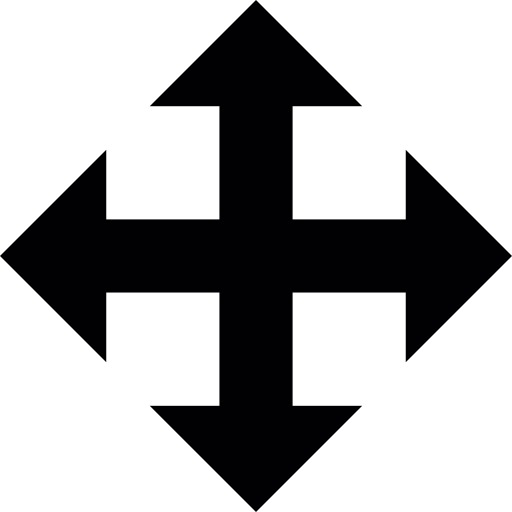
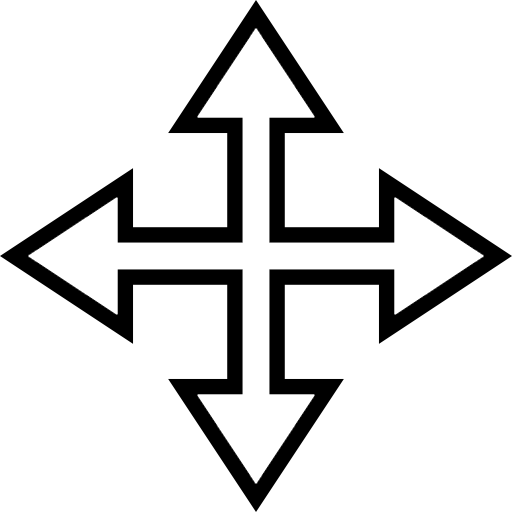
skill tree editor implementation

Changed region(s): [[0.0, 0.0, 1.0, 1.0]]

diff --git a/Assets/Editor/Inspectors/SkillTree/SkillTreeInspector.cs b/Assets/Editor/Inspectors/SkillTree/SkillTreeInspector.cs
@@ -26,15 +26,17 @@ namespace Editor.Inspectors.SkillTree
 
             _calculatedNodes.Clear();
 
-            Handles.BeginGUI();
             foreach (var node in nodes)
             {
+                if (!node.Tree)
+                {
+                    node.Tree = target as UI.Components.SkillTree;
+                }
                 var rt = node.GetComponent<RectTransform>();
-                var nodeSize = rt.sizeDelta / 4 * zoom;
+                var nodeSize = rt.sizeDelta / 2;
                 var pos = camera.WorldToScreenPoint(node.transform.position);
                 var basePos = new Vector2(pos.x, camera.pixelHeight - pos.y);
                 nodeSize.y = -nodeSize.y;
-                var finalPos = nodeSize + basePos;
                 
                 Handles.color = Color.red;
                 foreach (var connection in node.Connections)
@@ -43,24 +45,44 @@ namespace Editor.Inspectors.SkillTree
                     {
                         continue;
                     }
-                    var cPos = camera.WorldToScreenPoint(connection.GetComponent<RectTransform>().position);
-                    var cBasePos = new Vector2(cPos.x, camera.pixelHeight - cPos.y);
-                    Handles.DrawLine(basePos, cBasePos);
+                    Handles.DrawLine(rt.position, connection.GetComponent<RectTransform>().position);
                 }
 
                 _calculatedNodes.Add(node);
                 
                 Handles.color = Color.white;
-                Handles.DrawSolidDisc(basePos, new Vector3(0, 0, 1), nodeSize.x);
+                Handles.DrawSolidDisc(rt.position, new Vector3(0, 0, 1), nodeSize.x);
                 Handles.color = Color.black;
-                Handles.DrawSolidDisc(basePos, new Vector3(0, 0, 1), nodeSize.x * 0.75f);
+                Handles.DrawSolidDisc(rt.position, new Vector3(0, 0, 1), nodeSize.x * 0.75f);
+                Handles.color = Color.gray;
+                EditorGUI.BeginChangeCheck();
+                var offset = new Vector3(-nodeSize.x - 6, nodeSize.x / 2 + 5);
+                EditorSnapSettings.snapEnabled = true;
+                var newPos = Handles.FreeMoveHandle(rt.position + offset, 20, Vector3.zero, DoMoveHandle);
+                if (EditorGUI.EndChangeCheck())
+                {
+                    Undo.RecordObject(rt, "Move Skill Node");
+                    var delta = newPos - rt.position - offset;
+                    rt.position += delta;
+                    rt.position = Snapping.Snap(rt.position, new Vector3(10, 10, 10));
+                }
                 
+                var normalStyle = new GUIStyle("ButtonMid");
+                Handles.BeginGUI();
                 if (node != _attachNode && !node.HasConnection(_attachNode))
                 {
-                    if (GUI.Button(new Rect(new Vector2(finalPos.x - 10 * zoom, finalPos.y - 10 * zoom), new Vector2(20, 20) * zoom), EditorGUIUtility.Load("Link.png") as Texture))
+                    if (_attachNode)
+                    {
+                        GUI.backgroundColor = new Color(1, 1, 0);
+                    }
+
+                    if (GUI.Button(new Rect(new Vector2(basePos.x + (nodeSize.x / 2 - 6) * zoom, basePos.y - (nodeSize.x - 6) * zoom),
+                            new Vector2(10, 10) * zoom),
+                            EditorGUIUtility.Load("Link.png") as Texture, normalStyle))
                     {
                         if (_attachNode)
                         {
+                            Undo.RecordObjects(new Object[]{node, _attachNode}, "Link Skill Nodes");
                             _attachNode.Attach(node);
                             node.Attach(_attachNode);
                             _attachNode = null;
@@ -71,8 +93,39 @@ namespace Editor.Inspectors.SkillTree
                         }
                     }
                 }
+                else if (node != _attachNode)
+                {
+                    GUI.backgroundColor = new Color(1, 0, 0);
+                    
+                    if (_attachNode)
+                    {
+                        if (GUI.Button(new Rect(new Vector2(basePos.x + (nodeSize.x / 2 - 6) * zoom, basePos.y - (nodeSize.x - 6) * zoom),
+                                    new Vector2(10, 10) * zoom),
+                                EditorGUIUtility.Load("Cross.png") as Texture, normalStyle))
+                        {
+                            Undo.RecordObjects(new Object[]{node, _attachNode}, "Unlink Skill Nodes");
+                            _attachNode.Detach(node);
+                            node.Detach(_attachNode);
+                            _attachNode = null;
+                        }
+                    }
+                }
+                Handles.EndGUI();
             }
-            Handles.EndGUI();
+        }
+
+        private void DoMoveHandle(int controlID, Vector3 position, Quaternion rotation, float size, EventType eventType)
+        {
+            switch (eventType)
+            {
+                case EventType.MouseMove:
+                case EventType.Layout:
+                    HandleUtility.AddControl(controlID, HandleUtility.DistanceToRectangle(position, rotation, size));
+                    break;
+                case EventType.Repaint:
+                    Graphics.DrawTexture(new Rect(position, Vector2.one * size), EditorGUIUtility.Load("MoveTool.png") as Texture);
+                    break;
+            }
         }
 
 

diff --git a/Assets/Scripts/UI/Elements/Skill Tree/SkillNode.cs b/Assets/Scripts/UI/Elements/Skill Tree/SkillNode.cs
@@ -3,18 +3,35 @@ using Gameplay.Modifiers;
 using UI.Components;
 using UnityEngine;
 using UnityEngine.EventSystems;
+using UnityEngine.UI;
 
 namespace UI.Elements.Skill_Tree
 {
+    public enum SkillType
+    {
+        Travel,
+        Small,
+        Big,
+        Power
+    }
+    
     public class SkillNode : MonoBehaviour, IPointerClickHandler
     {
         private Modifier[] _modifiers;
         [SerializeField] private SkillTree _tree;
         [SerializeField] private List<SkillNode> _adjacentNodes;
+        [SerializeField] private RawImage _node;
         public SkillNode[] Connections => _adjacentNodes.ToArray();
+
+        public SkillTree Tree
+        {
+            get => _tree;
+            set => _tree = value;
+        }
 
         public void OnPointerClick(PointerEventData eventData)
         {
+            
             if (!eventData.dragging)
             {
                 _tree.SelectSkill(this);
@@ -29,9 +46,19 @@ namespace UI.Elements.Skill_Tree
             }
         }
 
+        public void Detach(SkillNode node)
+        {
+            _adjacentNodes.Remove(node);
+        }
+
         public bool HasConnection(SkillNode node)
         {
             return _adjacentNodes.Contains(node);
+        }
+
+        public void SetSkillType()
+        {
+            
         }
     }
 }
